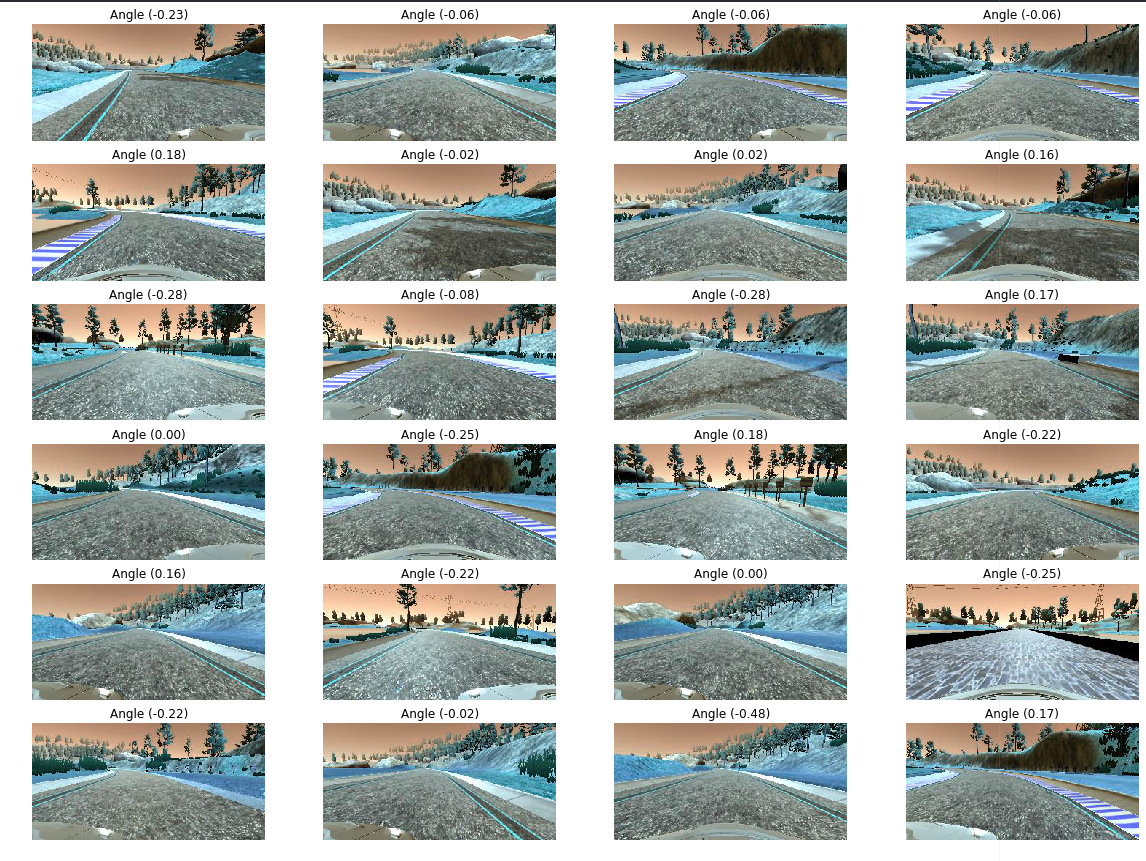
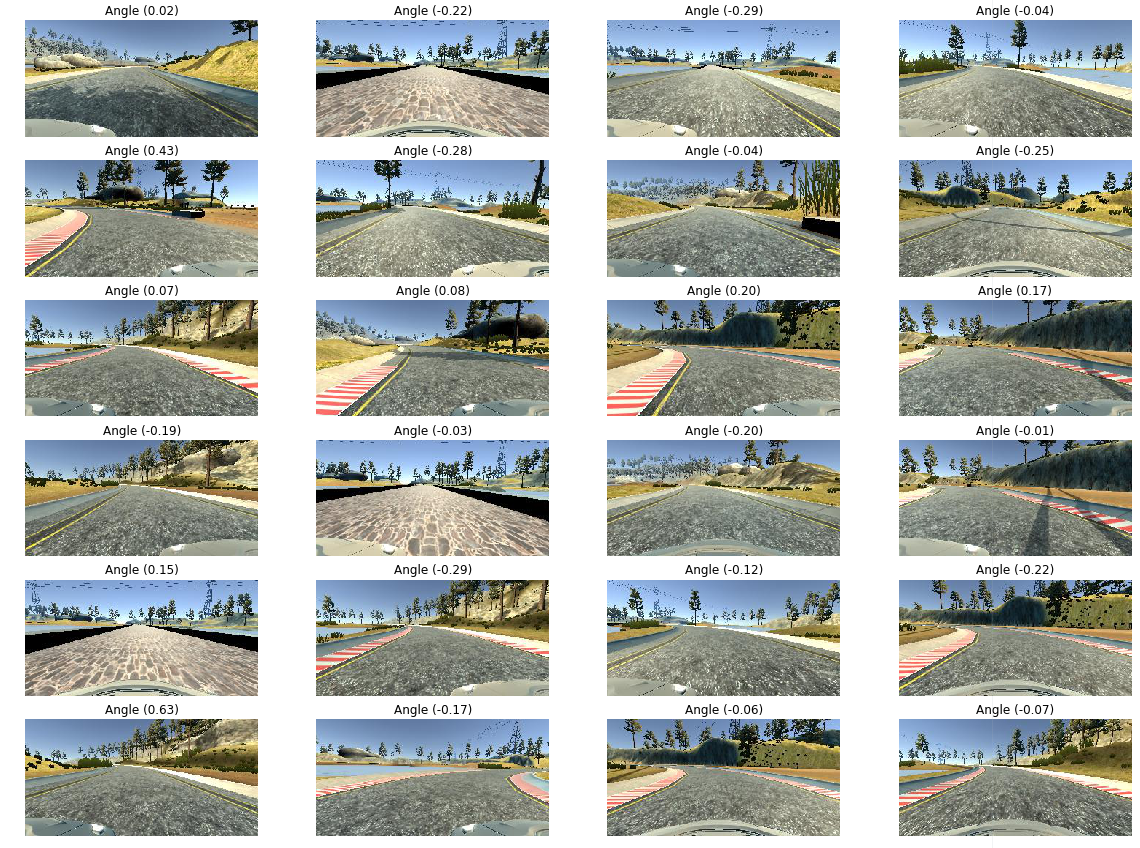
update images

diff --git a/model.py b/model.py
@@ -61,7 +61,7 @@ def plotSomeSamples(X, y, start, end):
         plt.axis('off')
         plt.title("Angle (" + str(format(y[i], '.2f')) + ")")
         i += 1
-        plt.imshow(cv2.imread(image))
+        plt.imshow(cv2.cvtColor(cv2.imread(image), cv2.COLOR_BGR2RGB))
     plt.show()
 
 
@@ -216,3 +216,28 @@ model = nvidiaModel()
 # model.load_weights('model.h5')
 train(model)
 # model.save_model_to_file()
+
+
+def plotFlipped(i):
+    plt.figure(figsize=(20, 20))
+    plt.subplot(2, 2, 1)
+    plt.axis('off')
+    plt.title("Angle (" + str(format(y_train[i], '.2f')) + ")")
+    image = cv2.imread(X_train[i])
+    plt.imshow(cv2.cvtColor(image, cv2.COLOR_BGR2RGB))
+    plt.subplot(2, 2, 2)
+    plt.axis('off')
+    plt.title("Angle (" + str(format(-y_train[i], '.2f')) + ")")
+    image = cv2.imread(X_train[i])
+    plt.imshow(cv2.cvtColor(cv2.flip(image, 1), cv2.COLOR_BGR2RGB))
+    plt.show()
+
+
+plotFlipped(1)
+
+    plotSomeSamples(X_train, y_train, 0, 24)
+    histogram(y_train, "Steering angle", "count distribution",
+              "Training Set Steering Angle Distribution")
+    plotSomeSamples(X_valid, y_valid, 0, 24)
+    histogram(y_valid, "Steering angle", "count distribution",
+              "Validation Set Steering Angle Distribution")

diff --git a/writeup_report.md b/writeup_report.md
@@ -124,22 +124,20 @@ Non-trainable params: 0
 
 To capture good driving behavior, I first recorded two laps on track one using center lane driving. Here is an example image of center lane driving:
 
-
+![alt text](https://github.com/maxiaodong97/CarND-Behavioral-Cloning-P3/blob/master/images/center_lane_driving.jpg "center lane driving")
 
 I then recorded the vehicle recovering from the left side and right sides of the road back to center so that the vehicle would learn to .... These images show what a recovery looks like starting from ... :
 
-![alt text]()
-![alt text][image4]
-![alt text][image5]
+![alt text](https://github.com/maxiaodong97/CarND-Behavioral-Cloning-P3/blob/master/images/recover_left.jpg "recover left")
+![alt text](https://github.com/maxiaodong97/CarND-Behavioral-Cloning-P3/blob/master/images/recover_right.jpg "recover right")
 
 Then I repeated this process on track two in order to get more data points.
+To augment the data sat, I also flipped images and angles thinking that this would eliminate the bias that in track one, we always circle anti-clockwise.
+For example, here is an image that has then been flipped:
 
-To augment the data sat, I also flipped images and angles thinking that this would ... For example, here is an image that has then been flipped:
 
-![alt text][image6]
-![alt text][image7]
 
-Etc ....
+
 
 After the collection process, I had X number of data points. I then preprocessed this data by ...
 
